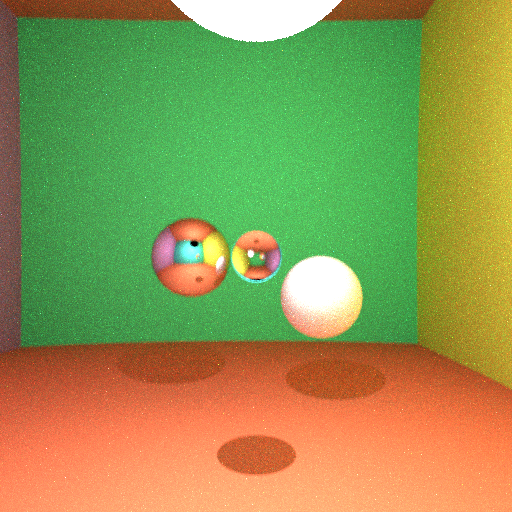
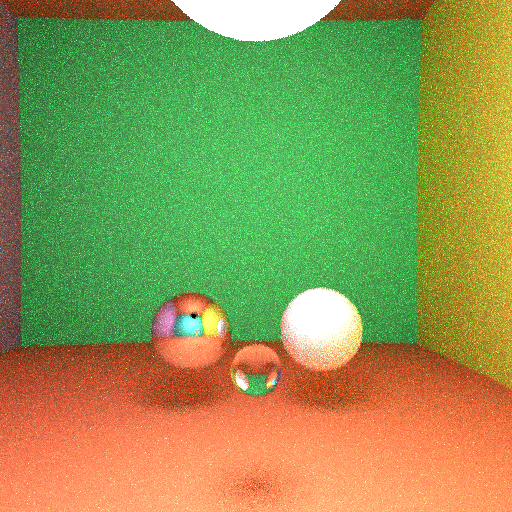
cleaning the code

diff --git a/main.cpp b/main.cpp
@@ -165,11 +165,6 @@ public:
 	}
 	
 	Vector eclairageDirect(Source sourceLumineuse, Vector Pinc, Vector Normale, Vector albedo){
-		
-
-		
-
-				
 		Vector O = sourceLumineuse.V;
 		Vector OX = Pinc - O;
 		Vector OXnormal = OX;
@@ -179,20 +174,16 @@ public:
 		Vector XXprime = Xprime - Pinc;
 		bool VXXprime = dot(Normale,OXprime) < 0;
 		Vector omeagaI = XXprime;
-		omeagaI.normalize();
 		double XX2 = XXprime.norm2();
-		Normale.normalize();
-		XXprime.normalize();
-		OXprime.normalize();
+		omeagaI.normalize();Normale.normalize();XXprime.normalize();OXprime.normalize();
 		Vector direct;
 		
+		// On vérifie qu'il n'y a pas d'intersection avant la lumière.
 		Ray rayon_lumiere(Pinc + 0.001*Normale,XXprime);
 		Vector Pprime, Nprime;int objectprime;double tprime;
 		bool ombre = intersection(rayon_lumiere, Pprime,Nprime, tprime,objectprime);
 		if (ombre && tprime*tprime < XX2){direct = Vector(0.,0.,0.);} 
-		else{
-		direct = sourceLumineuse.I/(4*M_PI_2)  * (dot(omeagaI,Normale)*dot(XXprime,Normale)*(VXXprime?1.:0.)/(XX2*dot(OXnormal,OXprime))) * albedo;
-		}
+		else{direct = sourceLumineuse.I/(4*M_PI_2)  * (dot(omeagaI,Normale)*dot(XXprime,Normale)*(VXXprime?1.:0.)/(XX2*dot(OXnormal,OXprime))) * albedo;}
 		return direct;		
 		}
 	
@@ -208,8 +199,6 @@ public:
 			else {return Vector(0,0,0);}
 			}
 		if (intersection(ray,P,N,t,object)){
-			
-			
 			// MIRROIR
 			if (spheres[object].mirror ){
 					Vector R = ray.u - 2 * dot(ray.u, N)*N;
@@ -226,68 +215,26 @@ public:
 				double incidence = dot(ray.u,N);
 				Vector Nused = N;
 				
-				if (incidence < 0){}
-				else {;rapportN = 1./rapportN; Nused = - N;}
+				if (incidence > 0){rapportN = 1./rapportN; Nused = - N;}
 				
 				double racine = 1 -  rapportN * rapportN * (1-dot(ray.u, Nused)*dot(ray.u, Nused)); 
-				if (racine < 0 and false){
-					Vector PL = L.V - P;
-					double distanceLum2 = PL.norm2();
-					PL.normalize();
-					Ray rayon_lumiere(P + 0.001*Nused,PL);
-					Vector Pprime, Nprime;int objectprime;double tprime;
-					bool ombre = intersection(rayon_lumiere, Pprime,Nprime, tprime,objectprime);
-					if (ombre && tprime*tprime < distanceLum2){rayColor = Vector(0.,0.,0.);} 
-					else {
-						Sphere sphere2 = spheres[object];
-						rayColor.x = L.I * (sphere2.albedo.x / M_PI) * max(0.,dot(Nused,PL)) / (4 * M_PI * distanceLum2);
-						rayColor.y = L.I * (sphere2.albedo.y / M_PI) * max(0.,dot(Nused,PL)) / (4 * M_PI * distanceLum2);
-						rayColor.z = L.I * (sphere2.albedo.z / M_PI) * max(0.,dot(Nused,PL)) / (4 * M_PI * distanceLum2);
-						}
-				}
-				else if (racine > 0){
+				if (racine > 0){
 					Vector R =  rapportN*ray.u - (rapportN * dot(ray.u,Nused) + sqrt(racine))*Nused;
 					Ray rayR(P - 0.001 * Nused, R);
 					rayColor = getColor(rayR,nbrebonds-1,L);
 				}
 			}
 		
-			else if (true){
+			else {
 				
 				//Eclairage direct
-				Vector PL = L.V - P;
-				double distanceLum2 = PL.norm2();
-				PL.normalize();
-				Ray rayon_lumiere(P + 0.001*N,PL);
-				Vector Pprime, Nprime;int objectprime;double tprime;
-				bool ombre = intersection(rayon_lumiere, Pprime,Nprime, tprime,objectprime);
-				if (ombre && tprime*tprime < distanceLum2){rayColor = Vector(0.,0.,0.);} 
-				else {rayColor = rayColor +  eclairageDirect( L,  P, N, spheres[object].albedo);
-					}	
+				rayColor = rayColor +  eclairageDirect( L,  P, N, spheres[object].albedo);
 						
 				//Eclairage indirect
 				Vector reflechi = random_cos(N);
 				Ray ray_reflechi(P+0.001*N, reflechi);
 				rayColor = rayColor + spheres[object].albedo * getColor(ray_reflechi, nbrebonds-1,L);
 			}
-
-			/*
-			else if  (spheres[object].diffus){
-				double alpha = spheres[object].alpha;
-				if (u(e) < alpha ){
-					Vector reflechi = random_cos(N);
-					Ray ray_reflechi(P+0.001*N, reflechi);	
-				}
-				else {
-					Vector reflechi = random_cos(N);
-					Ray ray_reflechi(P+0.001*N, reflechi);	
-				}
-				double pdf = alpha*p_lampe(rayon_reflechi) + (1-alpha)*p_diffus(rayon_reflechi);
-
-				
-				
-			}
-			* */
 		}
 		else {rayColor = Vector(0.,0.,0.);}
 
@@ -318,14 +265,14 @@ int main() {
 
     int W = 512;
     int H = 512;
-    int Nray = 50;
+    int Nray = 100;
     
     double fov = 60 * M_PI /180.0;
     double tanoffov = tan(fov*0.5);
     
-    Sphere s(Vector(8,0,0) , 5, Vector(1,1,1), true, false,12,1);
-    Sphere sbis(Vector(-8,-5,0) , 5, Vector(1,1,1), false, false,2.5,1);
-    Sphere stris(Vector(0,0,20) , 2, Vector(1,0,1), false, true,12,12);
+    Sphere s(Vector(8,-9,0) , 5, Vector(1,1,1), true, false,12,1);
+    Sphere sbis(Vector(-8,-9,0) , 5, Vector(1,1,1), false, false,2.5,1);
+    Sphere stris(Vector(0,-9,20) , 2, Vector(1,0,1), false, true,1.4,1.4);
     Source Slum(Vector(0, 20, 30),7,2000000000);
     
     
